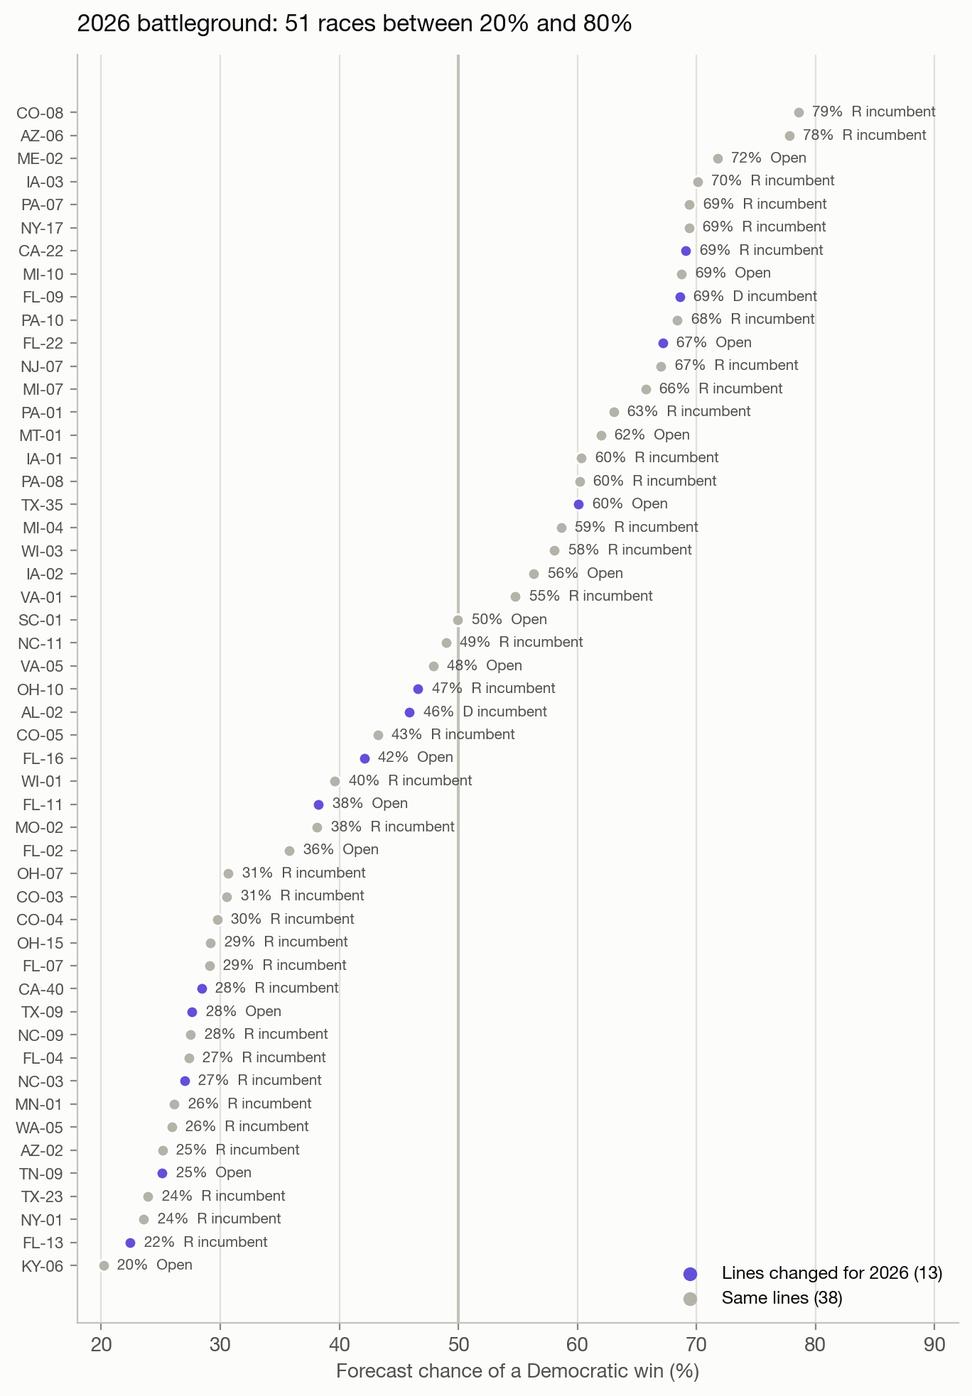
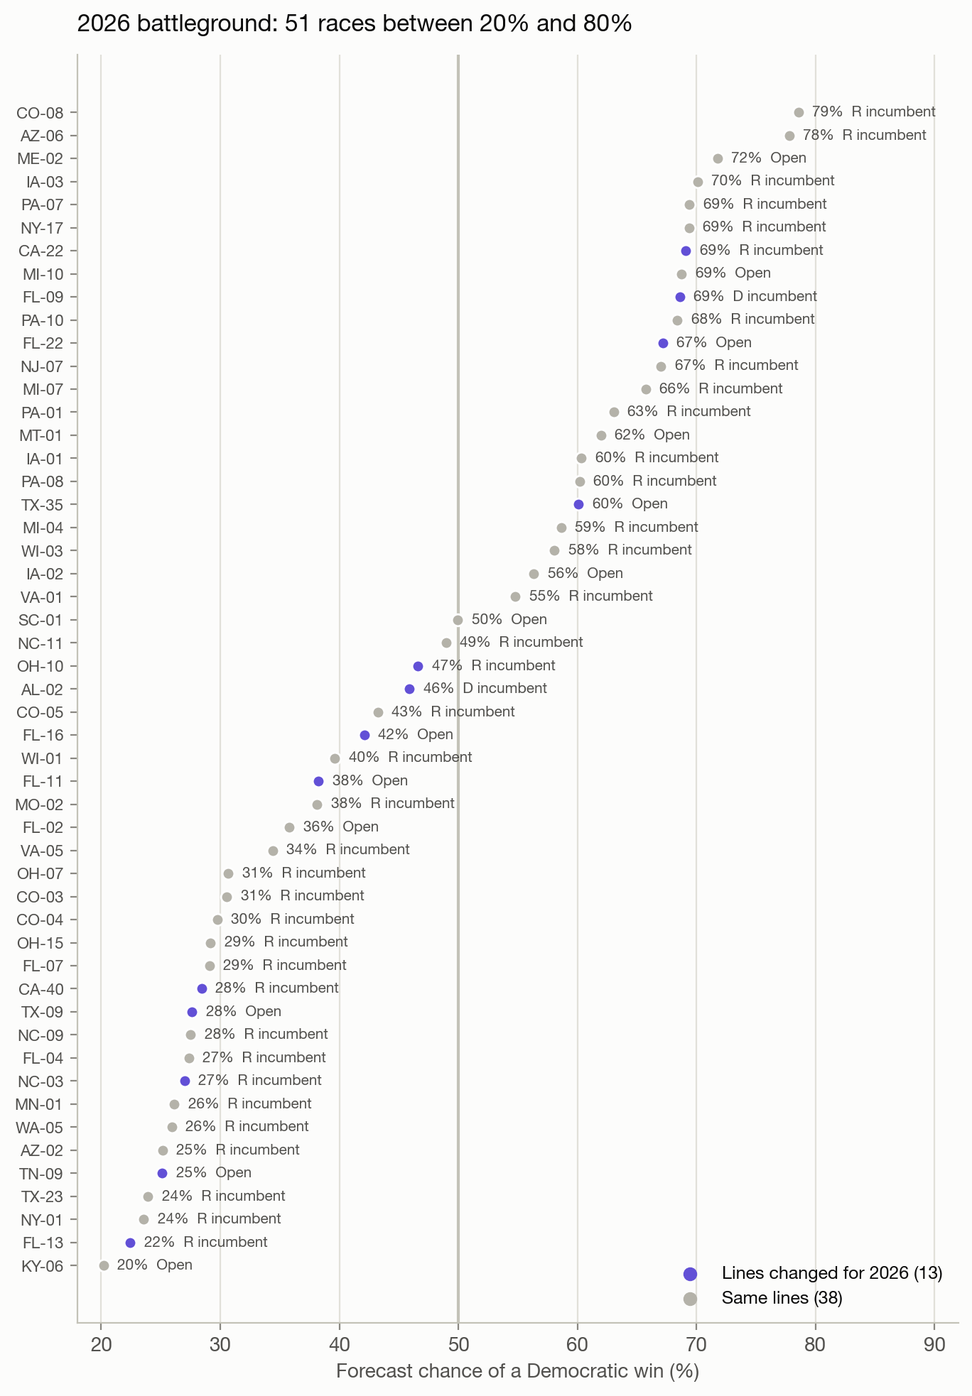
Count sitting members FEC lists as challengers as 2026 incumbents
FEC's 2026 file flags a dozen current members as challengers or open-seat
candidates (Self, TX-03; Menendez, NJ-08; Onder, MO-03; Casar on his new
TX-37), so the forecast treated those races as open seats. With no ballot
yet, a nominee who matches a current member from the state on party,
surname and first name or nickname now counts as the incumbent.
- The Senate-run check skips committees FEC flags as a senator's: "S6"
  also starts 2006 IDs, and Bob Menendez's still spends, which made his
  son look like a Senate candidate.
- Tied top spenders resolve in FEC's file order, not at random.

2026: 242.0 expected Democratic seats (242.2 before), 96% chance of a
majority; VA-05 48% -> 34%, TX-03 7% -> 3%.

Changed region(s): [[0.2763, 0.4654, 0.5833, 0.6205], [0.0, 0.4654, 0.0614, 0.6205]]

diff --git a/campaign/load_candidates.py b/campaign/load_candidates.py
@@ -22,7 +22,11 @@ counts as $0. For a cycle with no published results yet (2026), the top D
 and R spender per district stand in for the nominees, after dropping
 "incumbents" who are no longer House members (see below), except where
 data/nominees_{cycle}.csv names the actual nominees, checked by hand with
-sources, along with their incumbency. That list covers districts where the
+sources, along with their incumbency. FEC lists some current members as
+challengers or open-seat candidates (a dozen in 2026: Self in TX-03,
+Menendez in NJ-08, Casar running in the new TX-37), so a nominee who is a
+current member from the state, with the same party, surname and first name
+or nickname, is counted as the incumbent. That list covers districts where the
 top spender had no House report through June 30: a Senate run (Weil,
 FL-06; Cotton, AR-04), a campaign that ended (Chatzky, NY-17), or a primary
 loser. Several of the right nominees were incumbents (Clyde, GA-09;
@@ -35,6 +39,8 @@ from pathlib import Path
 
 import pandas as pd
 
+from .lookup_quality import name_parts, same_first
+
 RAW = Path(__file__).resolve().parents[1] / "data" / "raw" / "fec"
 SHEETS = Path(__file__).resolve().parents[1] / "data" / "raw" / "presidential"
 DATA = Path(__file__).resolve().parents[1] / "data"
@@ -44,6 +50,15 @@ PARTY = {"DEM": "D", "DFL": "D", "REP": "R"}
 SUFFIXES = {"JR", "SR", "II", "III", "IV", "MR", "MRS", "MS", "DR", "HON", "THE", "MD"}
 WORD = re.compile(r"[A-Z]{2,}")
 SENATE_RUN_DOLLARS = 100_000
+
+
+def same_member(fec_name, member):
+    """Whether FEC's name is the member's: 'ONDER JR, ROBERT FRANK' is Bob Onder, but 'HOOPER, JAMES D' is
+    not John James."""
+    firsts, _, surname = name_parts(fec_name)
+    member_firsts, _, member_surname = name_parts(member)
+    return bool(member_surname) and member_surname[-1] in surname and \
+        any(same_first(a, b) for a in firsts for b in member_firsts)
 
 
 def load_candidates(cycle, results):
@@ -72,19 +87,31 @@ def load_candidates(cycle, results):
         # members leaving for the Senate (Hinson, IA-02; Barr, KY-06), and
         # keeps members running on a new district number (Bera in CA-03). A
         # Senate run counts if its FEC ID was issued this cycle ("S6" for
-        # 2026) and it has spent $100K+, which skips old or abandoned bids.
-        members = {(row[0][:2], WORD.findall(row[1].upper())[-1])
-                   for row in csv.reader((SHEETS / f"lines_{cycle}.csv").open(encoding="utf-8"))
-                   if len(row) > 1 and DISTRICT.match(row[0].strip()) and WORD.findall(row[1].upper())}
+        # 2026) and it has spent $100K+, which skips old or abandoned bids,
+        # and if it isn't flagged as a senator's: "S6" also starts IDs from
+        # 2006, and Bob Menendez's still spends, which made his son (NJ-08)
+        # look like a Senate candidate.
+        sheet = [row for row in csv.reader((SHEETS / f"lines_{cycle}.csv").open(encoding="utf-8"))
+                 if len(row) > 2 and DISTRICT.match(row[0].strip()) and WORD.findall(row[1].upper())]
+        members = {(row[0][:2], WORD.findall(row[1].upper())[-1]) for row in sheet}
         senate = everyone[everyone.cand_id.str.startswith(f"S{str(cycle)[-1]}")
-                          & (pd.to_numeric(everyone.disbursements, errors="coerce") >= SENATE_RUN_DOLLARS)]
+                          & (pd.to_numeric(everyone.disbursements, errors="coerce") >= SENATE_RUN_DOLLARS)
+                          & (everyone.ici != "I")]
         running = {(s, WORD.findall(n.split(",")[0].upper())[-1], n.split(",")[1].strip()[:1])
                    for s, n in zip(senate.state, senate.name) if "," in n and WORD.findall(n.split(",")[0].upper())}
         is_member = [any((s, w) in members for w in words) for s, words in zip(fec.state, fec.words)]
         for_senate = [any((s, w, i) in running for w in words) for s, words, i in zip(fec.state, fec.words, fec.initial)]
+        # FEC also lists some current members as challengers or open-seat
+        # candidates (Self, TX-03; Menendez, NJ-08; Onder, MO-03; Casar on his
+        # new TX-37). A nominee is the incumbent when a member from the state
+        # has the same party, surname and first name or nickname.
+        sitting = [not r and any(row[0][:2] == s and row[2].strip("() ") == party and same_member(name, row[1])
+                                 for row in sheet)
+                   for s, party, name, r in zip(fec.state, fec.fec_party, fec.name, for_senate)]
+        fec.loc[sitting, "ici"] = "I"
         current = pd.Series([ici != "I" or (m and not r) for ici, m, r in zip(fec.ici, is_member, for_senate)],
                             index=fec.index)
-        top = fec[fec.fec_party.notna() & current].sort_values("disbursements", ascending=False)
+        top = fec[fec.fec_party.notna() & current].sort_values("disbursements", ascending=False, kind="stable")
         guess = top.drop_duplicates(["district_id", "fec_party"]).rename(columns={"fec_party": "party"}).assign(
             ballot_name=None)[columns]
         listed = DATA / f"nominees_{cycle}.csv"

diff --git a/campaign/report.py b/campaign/report.py
@@ -469,7 +469,7 @@ Generated by `python run.py` on {dt.date.today().isoformat()}. Every number belo
 4. **State party labels.** Minnesota's Democratic-Farmer-Labor and North Dakota's Democratic-NPL candidates are Democrats. Missing them turns both states into Republican landslides.
 5. **Amended reports counted twice.** The FEC's independent-expenditure file keeps every version of a report. An amendment replaces the whole report it amends, so rows from superseded reports are dropped. Raw, the file puts DCCC's 2024 independent spending at $103.0M; with the rule it is $74.2M, against FEC's published $74.26M (2022: $96.4M, matching FEC exactly). House Majority PAC's 2024 total drops from $241M to $196M. Deduplicating by transaction ID instead looks right for DCCC but collapses Congressional Leadership Fund's 2022 spending from $227M to $1M, because its transaction IDs repeat.
 6. **Spending with no party attached.** On 10-15% of rows the target candidate's party is blank, including $213M of CLF's $217M in 2024. Dropping those rows undercounts Republican outside money by nearly three quarters in 2024 ($87M instead of $314M). Here the party comes from FEC's candidate list instead: the candidate in that district with that surname. 98-99.5% of every cycle's House general-election spending ends up assigned to a side.
-7. **The wrong candidate's money.** FEC's candidate list includes primary losers and House members running for another office, whose committees still sit under their old House district (Gallego, AZ-03, and Schiff, CA-30, in 2024; a stale Sinema committee in AZ-09 spending $4.4M in 2026). Candidates are matched to the names on the November ballot by surname, after stripping accents ("SÁNCHEZ") and searching the whole FEC name for married names ("MATTELIN, CAITLIN RAE DRAPER" is the ballot's Caitlin Draper). Members filed under their pre-redistricting district are matched within the state on surname plus first initial (Schweikert, AZ-01, 2022). For 2026, with no ballot yet, an incumbent flag counts only for a current member from that state who isn't running for Senate this cycle (Hinson in IA-02 and Barr in KY-06 are, so those seats are open). Members leaving for a governor's race or resigning can still be mislabeled, because FEC doesn't track those; IA-04 and SD-00, both safe Republican seats, are the known cases.
+7. **The wrong candidate's money.** FEC's candidate list includes primary losers and House members running for another office, whose committees still sit under their old House district (Gallego, AZ-03, and Schiff, CA-30, in 2024; a stale Sinema committee in AZ-09 spending $4.4M in 2026). Candidates are matched to the names on the November ballot by surname, after stripping accents ("SÁNCHEZ") and searching the whole FEC name for married names ("MATTELIN, CAITLIN RAE DRAPER" is the ballot's Caitlin Draper). Members filed under their pre-redistricting district are matched within the state on surname plus first initial (Schweikert, AZ-01, 2022). For 2026, with no ballot yet, an incumbent flag counts only for a current member from that state who isn't running for Senate this cycle (Hinson in IA-02 and Barr in KY-06 are, so those seats are open). FEC also lists current members as challengers or open-seat candidates, a dozen in 2026 (Self in TX-03, Menendez in NJ-08, Casar running in the new TX-37), so a nominee who matches a current member from the state on party, surname and first name or nickname counts as the incumbent. Members leaving for a governor's race or resigning can still be mislabeled, because FEC doesn't track those; IA-04 and SD-00, both safe Republican seats, are the known cases.
 8. **Gaps in FEC's summary file.** A few nominees are missing from it altogether (DeLauro in 2016, Cisneros in 2024), and their spending counts as $0. That leaves 1-6 races per cycle decided by under 20 points with an unmatched nominee.
 9. **Fraudulent filings.** Some files contain single "expenditures" of $1 billion or more: a "COMMITTEE 300" reports $10B twice "for cash in hand" in 2022, and one person files billions under names like "Warren Buffet" in 2026. No real single House expenditure from 2012 to 2026 tops $5M, so any row over $25M is dropped.
 10. **Polls, not results, for the national environment.** A forecast can only use the polling average before the election. (An earlier version of this project used the actual House popular vote for some years, which leaks the answer.)

diff --git a/tests/test_model.py b/tests/test_model.py
@@ -390,6 +390,29 @@ def test_hand_checked_nominees_replace_the_top_spender_guess(tmp_path, monkeypat
     assert picked.ici["R"] == "I"
 
 
+def test_sitting_members_fec_lists_as_challengers_are_incumbents(tmp_path, monkeypatch):
+    def weball_row(cand_id, name, ici, party, disbursed, state, district):
+        row = [""] * 30
+        row[0], row[1], row[2], row[4], row[7], row[18], row[19] = cand_id, name, ici, party, disbursed, state, district
+        return "|".join(row)
+    (tmp_path / "weball26.txt").write_text("\n".join([
+        weball_row("H6AA01001", "ONDER JR, ROBERT FRANK", "C", "REP", "500000", "AA", "01"),   # goes by Bob
+        weball_row("H6AA02001", "HOOPER, JAMES D", "C", "REP", "400000", "AA", "02"),          # not John James
+        weball_row("H6AA03001", "MENENDEZ, ROBERT J.", "I", "DEM", "300000", "AA", "03"),
+        weball_row("S6AA00001", "MENENDEZ, ROBERT", "I", "DEM", "800000", "AA", "00"),         # his father's old ID
+        weball_row("H6AA04001", "RUNNER, KIM", "I", "REP", "600000", "AA", "04"),
+        weball_row("S6AA00002", "RUNNER, KIM", "O", "REP", "900000", "AA", "00"),              # running for Senate
+        weball_row("H6AA04002", "HOPEFUL, LEE", "C", "REP", "100000", "AA", "04")]) + "\n")
+    (tmp_path / "lines_2026.csv").write_text("District,Incumbent,Party\nAA-01,Bob Onder,(R)\nAA-03,Rob Menendez,(D)\n"
+                                             "AA-04,Kim Runner,(R)\nAA-05,John James,(R)\n")
+    for attr in ("RAW", "SHEETS", "DATA"):
+        monkeypatch.setattr(lc, attr, tmp_path)
+    picked = lc.load_candidates(2026, pd.DataFrame()).set_index("district_id")
+    assert picked.cand_id.to_dict() == {"AA-01": "H6AA01001", "AA-02": "H6AA02001", "AA-03": "H6AA03001",
+                                        "AA-04": "H6AA04002"}
+    assert picked.ici.to_dict() == {"AA-01": "I", "AA-02": "C", "AA-03": "I", "AA-04": "C"}
+
+
 
 def test_household_index_reweights_missing_items_and_reads_june(tmp_path, monkeypatch):
     months = pd.date_range("2019-01-01", "2020-12-01", freq="MS")

diff --git a/REPORT.md b/REPORT.md
@@ -11,7 +11,7 @@ Generated by `python run.py` on 2026-10-30. Every number below is computed by th
 - **If persuasion fades in days, timing matters more than placement.** Counting each DCCC dollar by how much of its effect is left when voters cast their ballots (a 4-day half-life, from TV-ad experiments, and each state's early-vote share from the federal EAVS), DCCC's money landed at 23%-43% of what the same dollars could count at the best time. Re-timing within the same races gains +0.4 to +1.4 expected seats per cycle, against +0.05 to +0.19 for moving money between races, before the higher price of late airtime. Timing doesn't explain the safe-seat spending (section 5).
 - **Neither strategy nor TV prices explain that defensive spending.** In a two-player game against NRCC, DCCC's best play puts at most 2% of its money in 80%+ seats (figure 5). DCCC already spends about half as much per race in the costliest TV markets, and pricing in market cost makes the model leave them almost entirely. No spender shifts toward mail where TV is most expensive (figure 6).
 - **Household stress does not explain where the polls miss.** Over the 12 elections with a final RealClearPolitics generic-ballot average (2002-2024), neither the household cost basket from the HOUSING AFFORDABILITY TRACKER (its own items and weights, pulled from FRED) nor a credit-and-labor stress index predicts where the House vote lands relative to the polls; both make the prediction worse. The same holds against the polls on Sept 1, when the allocation decision is made, and a ballot built from economics alone misses the House vote by more than the September polls do leaving one election out (5.3 points against 3.4) (section 8).
-- **2026: the national environment matters more than the new maps.** Redrawn maps in 9 states move Harris-won districts from 72 to 68 in those states (figure 7). At the current D+8.4 generic ballot, the model expects 242 Democratic seats among 434 modeled races (80% range 225-261), a 96% chance of a majority. A 3-point polling miss moves the expected total by about 13 seats (figures 8-9).
+- **2026: the national environment matters more than the new maps.** Redrawn maps in 9 states move Harris-won districts from 72 to 68 in those states (figure 7). At the current D+8.4 generic ballot, the model expects 242 Democratic seats among 434 modeled races (80% range 224-261), a 96% chance of a majority. A 3-point polling miss moves the expected total by about 12 seats (figures 8-9).
 
 ## 1. Data
 
@@ -34,7 +34,7 @@ Generated by `python run.py` on 2026-10-30. Every number below is computed by th
 4. **State party labels.** Minnesota's Democratic-Farmer-Labor and North Dakota's Democratic-NPL candidates are Democrats. Missing them turns both states into Republican landslides.
 5. **Amended reports counted twice.** The FEC's independent-expenditure file keeps every version of a report. An amendment replaces the whole report it amends, so rows from superseded reports are dropped. Raw, the file puts DCCC's 2024 independent spending at $103.0M; with the rule it is $74.2M, against FEC's published $74.26M (2022: $96.4M, matching FEC exactly). House Majority PAC's 2024 total drops from $241M to $196M. Deduplicating by transaction ID instead looks right for DCCC but collapses Congressional Leadership Fund's 2022 spending from $227M to $1M, because its transaction IDs repeat.
 6. **Spending with no party attached.** On 10-15% of rows the target candidate's party is blank, including $213M of CLF's $217M in 2024. Dropping those rows undercounts Republican outside money by nearly three quarters in 2024 ($87M instead of $314M). Here the party comes from FEC's candidate list instead: the candidate in that district with that surname. 98-99.5% of every cycle's House general-election spending ends up assigned to a side.
-7. **The wrong candidate's money.** FEC's candidate list includes primary losers and House members running for another office, whose committees still sit under their old House district (Gallego, AZ-03, and Schiff, CA-30, in 2024; a stale Sinema committee in AZ-09 spending $4.4M in 2026). Candidates are matched to the names on the November ballot by surname, after stripping accents ("SÁNCHEZ") and searching the whole FEC name for married names ("MATTELIN, CAITLIN RAE DRAPER" is the ballot's Caitlin Draper). Members filed under their pre-redistricting district are matched within the state on surname plus first initial (Schweikert, AZ-01, 2022). For 2026, with no ballot yet, an incumbent flag counts only for a current member from that state who isn't running for Senate this cycle (Hinson in IA-02 and Barr in KY-06 are, so those seats are open). Members leaving for a governor's race or resigning can still be mislabeled, because FEC doesn't track those; IA-04 and SD-00, both safe Republican seats, are the known cases.
+7. **The wrong candidate's money.** FEC's candidate list includes primary losers and House members running for another office, whose committees still sit under their old House district (Gallego, AZ-03, and Schiff, CA-30, in 2024; a stale Sinema committee in AZ-09 spending $4.4M in 2026). Candidates are matched to the names on the November ballot by surname, after stripping accents ("SÁNCHEZ") and searching the whole FEC name for married names ("MATTELIN, CAITLIN RAE DRAPER" is the ballot's Caitlin Draper). Members filed under their pre-redistricting district are matched within the state on surname plus first initial (Schweikert, AZ-01, 2022). For 2026, with no ballot yet, an incumbent flag counts only for a current member from that state who isn't running for Senate this cycle (Hinson in IA-02 and Barr in KY-06 are, so those seats are open). FEC also lists current members as challengers or open-seat candidates, a dozen in 2026 (Self in TX-03, Menendez in NJ-08, Casar running in the new TX-37), so a nominee who matches a current member from the state on party, surname and first name or nickname counts as the incumbent. Members leaving for a governor's race or resigning can still be mislabeled, because FEC doesn't track those; IA-04 and SD-00, both safe Republican seats, are the known cases.
 8. **Gaps in FEC's summary file.** A few nominees are missing from it altogether (DeLauro in 2016, Cisneros in 2024), and their spending counts as $0. That leaves 1-6 races per cycle decided by under 20 points with an unmatched nominee.
 9. **Fraudulent filings.** Some files contain single "expenditures" of $1 billion or more: a "COMMITTEE 300" reports $10B twice "for cash in hand" in 2022, and one person files billions under names like "Warren Buffet" in 2026. No real single House expenditure from 2012 to 2026 tops $5M, so any row over $25M is dropped.
 10. **Polls, not results, for the national environment.** A forecast can only use the polling average before the election. (An earlier version of this project used the actual House popular vote for some years, which leaks the answer.)
@@ -139,7 +139,7 @@ Averaged over 2016-2024, log loss falls from 0.093 to 0.087. The history helps m
 | 2022 | 0.088 / 0.086 | 0.0274 / 0.0267 | 0.536 / 0.524 | +1.5 / +3.2 |
 | 2024 | 0.055 / 0.055 | 0.0155 / 0.0156 | 0.430 / 0.432 | +1.7 / +3.1 |
 
-It improves log loss in 3 of 5 years (0.088 against 0.087 on average); it is worse in 2018 (when many Democrats who had never held office beat incumbents) and 2024. The gain is small: few races have such a nominee, and the edge is a fraction of a race's typical miss. In 2026, 94 nominees who aren't incumbents had an article on Jan 1, 33 of them in races the forecast puts within 10 points.
+It improves log loss in 3 of 5 years (0.088 against 0.087 on average); it is worse in 2018 (when many Democrats who had never held office beat incumbents) and 2024. The gain is small: few races have such a nominee, and the edge is a fraction of a race's typical miss. In 2026, 82 nominees who aren't incumbents had an article on Jan 1, 32 of them in races the forecast puts within 10 points.
 
 **Incumbency that drifts.** The forecast pools one incumbency effect over every cycle, though it has shrunk (section 9). The alternative (`fit_drift.py`) lets only incumbency drift. Each cycle gets its own, estimated with everything else after taking out that cycle's national miss, and a random walk links them, its step size fit to the training cycles alone. It also adds a term for incumbents on lines redrawn since the last election, where no history carries over: how far they run ahead of incumbents on old lines once the old-lines member's last result is counted. That term is learned within cycles, from years when some states redrew and others didn't. Fit and scored the same way:
 
@@ -369,7 +369,7 @@ Forecast from a baseline fit on all 2012-2024 races, at the current generic ball
 |---|---|---|---|
 | Expected Democratic seats | 230 | 242 | 255 |
 
-Averaging over the national and state errors instead of fixing them gives the full distribution. The model puts Democrats at 242 seats among modeled races, an 80% range of 225-261, and a 96% chance of reaching the 218 they need for a majority. That already allows for the size of a national miss being estimated from only 7 elections (section 3); treating it as known would give 98%. It is still likely optimistic: the generic ballot here is the final average, not one a September decision could see, and the state and district errors are still assumed normal. A 4-point polling miss like 2020's would leave Democrats near 227 seats.
+Averaging over the national and state errors instead of fixing them gives the full distribution. The model puts Democrats at 242 seats among modeled races, an 80% range of 224-261, and a 96% chance of reaching the 218 they need for a majority. That already allows for the size of a national miss being estimated from only 7 elections (section 3); treating it as known would give 98%. It is still likely optimistic: the generic ballot here is the final average, not one a September decision could see, and the state and district errors are still assumed normal. A 4-point polling miss like 2020's would leave Democrats near 226 seats.
 
 ![Seat distribution](figures/9_seat_distribution.png)
 
@@ -377,7 +377,7 @@ Averaging over the national and state errors instead of fixing them gives the fu
 
 ![Battleground](figures/10_battleground.png)
 
-**Incumbents on redrawn lines.** 82 incumbents run on lines redrawn for 2026. The forecast gives them the full incumbency effect and no history from their old seats. That is how it treated them in training too: 29% of the incumbents in 2012-2024 ran on lines redrawn since the last election, most of them in 2012 and 2022, so its incumbency effect already mixes old lines and new. And incumbents on new lines haven't run behind (section 4): within cycles, 1.7 points ahead of those on old lines (standard error 0.9), and out of sample 1.3 points behind the forecast, against 2.9 points behind for incumbents on unchanged lines. How much of the new district a member already represented isn't used. The redrawn-incumbent races in play, under the forecast and under the drifting-incumbency model (section 4) with its redrawn-lines term on and off (off: as if each member had kept their lines):
+**Incumbents on redrawn lines.** 87 incumbents run on lines redrawn for 2026. The forecast gives them the full incumbency effect and no history from their old seats. That is how it treated them in training too: 29% of the incumbents in 2012-2024 ran on lines redrawn since the last election, most of them in 2012 and 2022, so its incumbency effect already mixes old lines and new. And incumbents on new lines haven't run behind (section 4): within cycles, 1.7 points ahead of those on old lines (standard error 0.9), and out of sample 1.3 points behind the forecast, against 2.9 points behind for incumbents on unchanged lines. How much of the new district a member already represented isn't used. The redrawn-incumbent races in play, under the forecast and under the drifting-incumbency model (section 4) with its redrawn-lines term on and off (off: as if each member had kept their lines):
 
 | Race | Incumbent | PVI | Forecast | Drifting incumbency | Drifting, as if on old lines |
 |---|---|---|---|---|---|
@@ -393,7 +393,7 @@ Averaging over the national and state errors instead of fixing them gives the fu
 | FL-14 | D incumbent | -4.8 | 82% | 76% | 68% |
 | TX-28 | D incumbent | -4.8 | 84% | 80% | 72% |
 
-The term helps both parties' redrawn incumbents, so it nets out to -0.2 expected Democratic seats. The drifting model as a whole moves the total more: it expects 246 Democratic seats (80% range 226-268, a 96% chance of a majority), against the forecast's 242. It calls past winners worse, though, so the forecast stays as it is.
+The term helps both parties' redrawn incumbents, so it nets out to -0.3 expected Democratic seats. The drifting model as a whole moves the total more: it expects 246 Democratic seats (80% range 226-268, a 96% chance of a majority), against the forecast's 242. It calls past winners worse, though, so the forecast stays as it is.
 
 ## 8. Does household stress explain where the polls miss?
 
